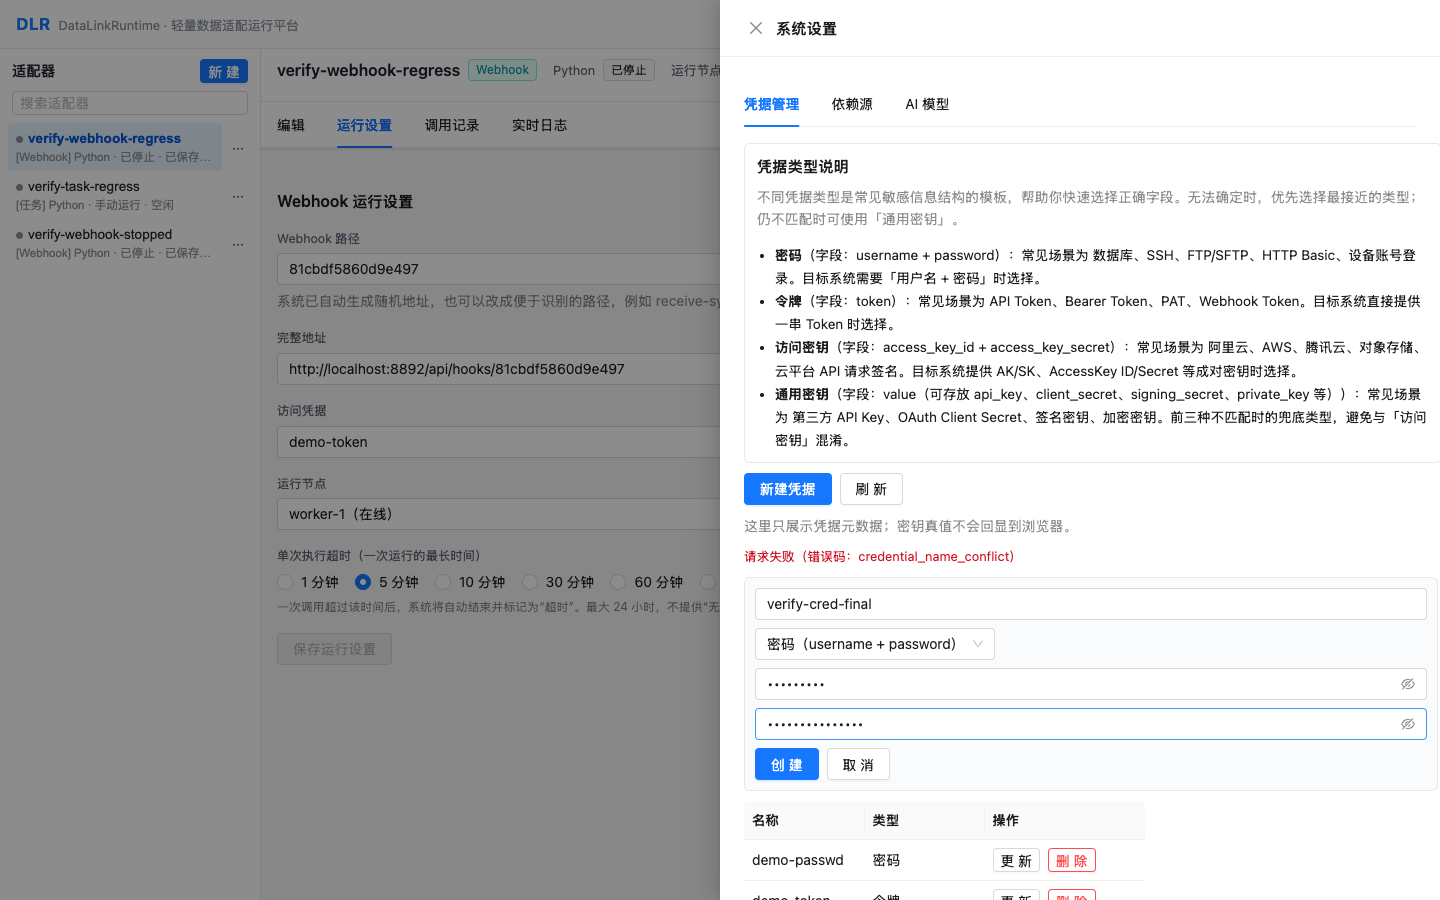
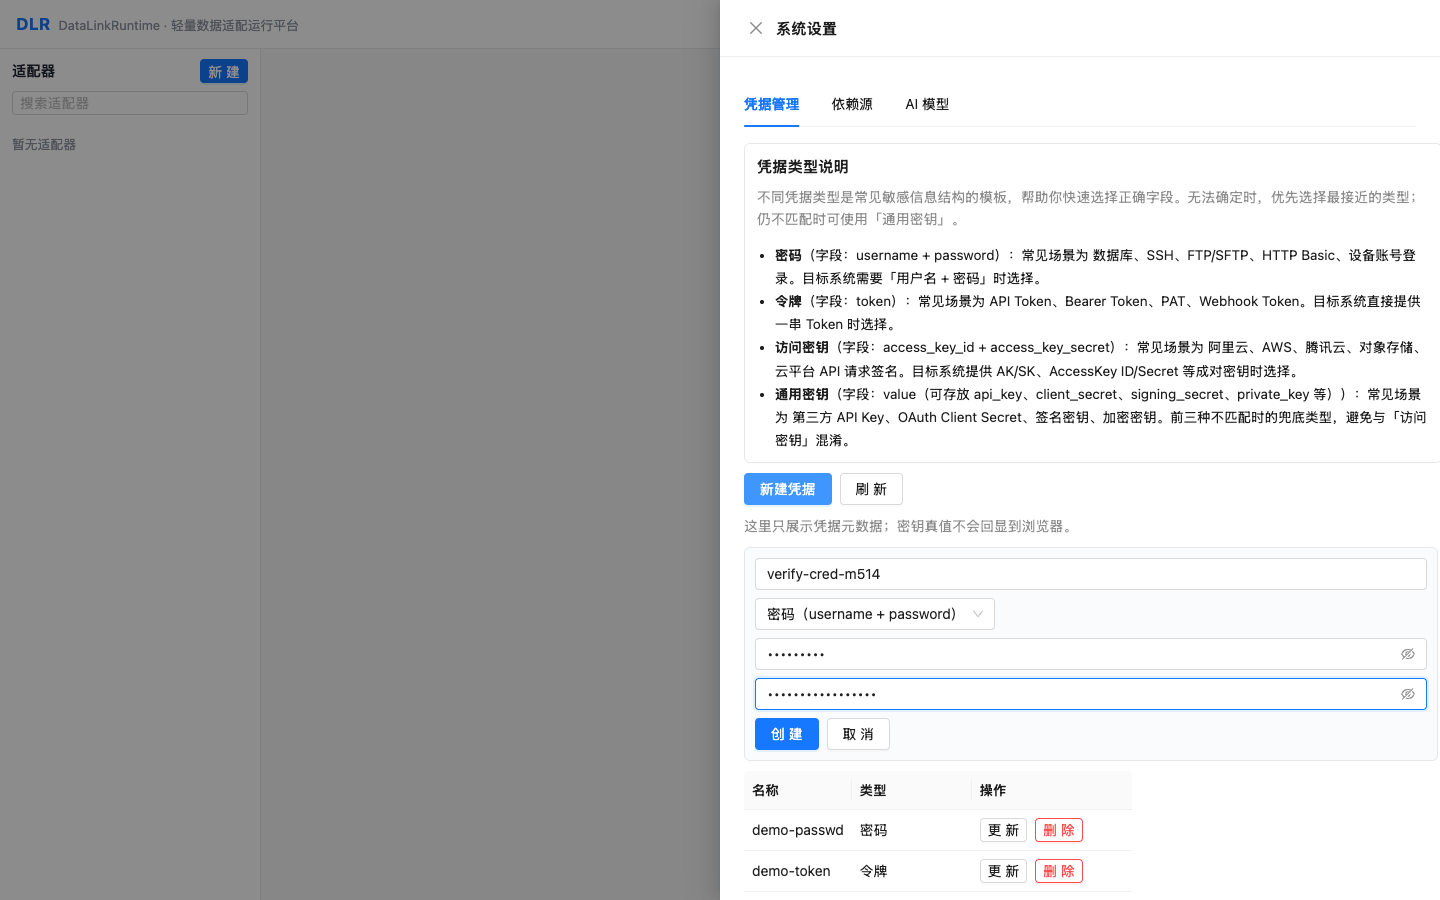
M5.5.14：修复验收项 8 截图证据（一次性明文提醒与列表元数据）（review 4949686159）

diff --git a/docs/ui/m5-5-14/验证记录.md b/docs/ui/m5-5-14/验证记录.md
@@ -44,6 +44,14 @@ exact main，backend/web/compose-smoke CI 全绿）。本分支从该 SHA 独立
 | 6 | Webhook 接收中锁定状态 | PASS | 09 | 「适配器正在接收请求，运行配置已锁定」单行提示 |
 | 7 | Webhook Stop active-call 三选一弹窗 | PASS | 10/11 | 弹窗三选一（直接结束/等待调用结束/取消）；选「直接结束」→ 停止接收 + 调用被取消 |
 | 8 | Credential 管理类型说明与创建提醒 | PASS | 12~15 | 四类说明（密码/令牌/访问密钥/通用密钥 + access_key_id）；保存前 `window.confirm` 一次性明文提醒；创建后列表仅元数据，无明文 Secret |
+
+> 验收项 8 证据链说明（Review 修复后）：截图 14 为点击「创建」前、已填写字段的新建表单
+> 画面；原生 `window.confirm` 弹窗不进浏览器截图，其一次性明文提醒文本
+> （「保存后密码、Token、密钥等敏感内容无法再次通过浏览器查看，请先妥善保存或复制。
+> 确定创建该凭据吗？」）由 Playwright `dialog` 事件实时捕获断言（PASS）记录于本节；
+> 截图 15 为创建成功后的凭据列表（`verify-cred-m514` 出现，字段值
+> `secret-m514-value` 未出现在页面文本中）。14 与 15 为两次不同状态的独立截图
+> （MD5 不同），不再存在字节级重复。
 | 9 | AI Assistant 新引导文案 | PASS | 17/18 | 「描述你的需求，可引用原代码片段…请使用「凭据绑定」功能，避免敏感凭据随代码发送给 AI」；composer 提示区分绑定 Secret / 硬编码敏感信息 |
 | 10 | 代码 + 日志多上下文 | PASS | 19/24 | Monaco 真实行号 Shift+点击选区 → 「代码 第X–Y行」；实时日志 DOM Range 选区 → 「实时日志 HH:mm:ss」片段 |
 | 11 | Candidate Diff Apply 后返回编辑器 | PASS | 20~22 | Candidate → 查看修改 → Diff → 应用修改 → Diff 自动关闭，「已应用到浏览器中的当前代码」 |
